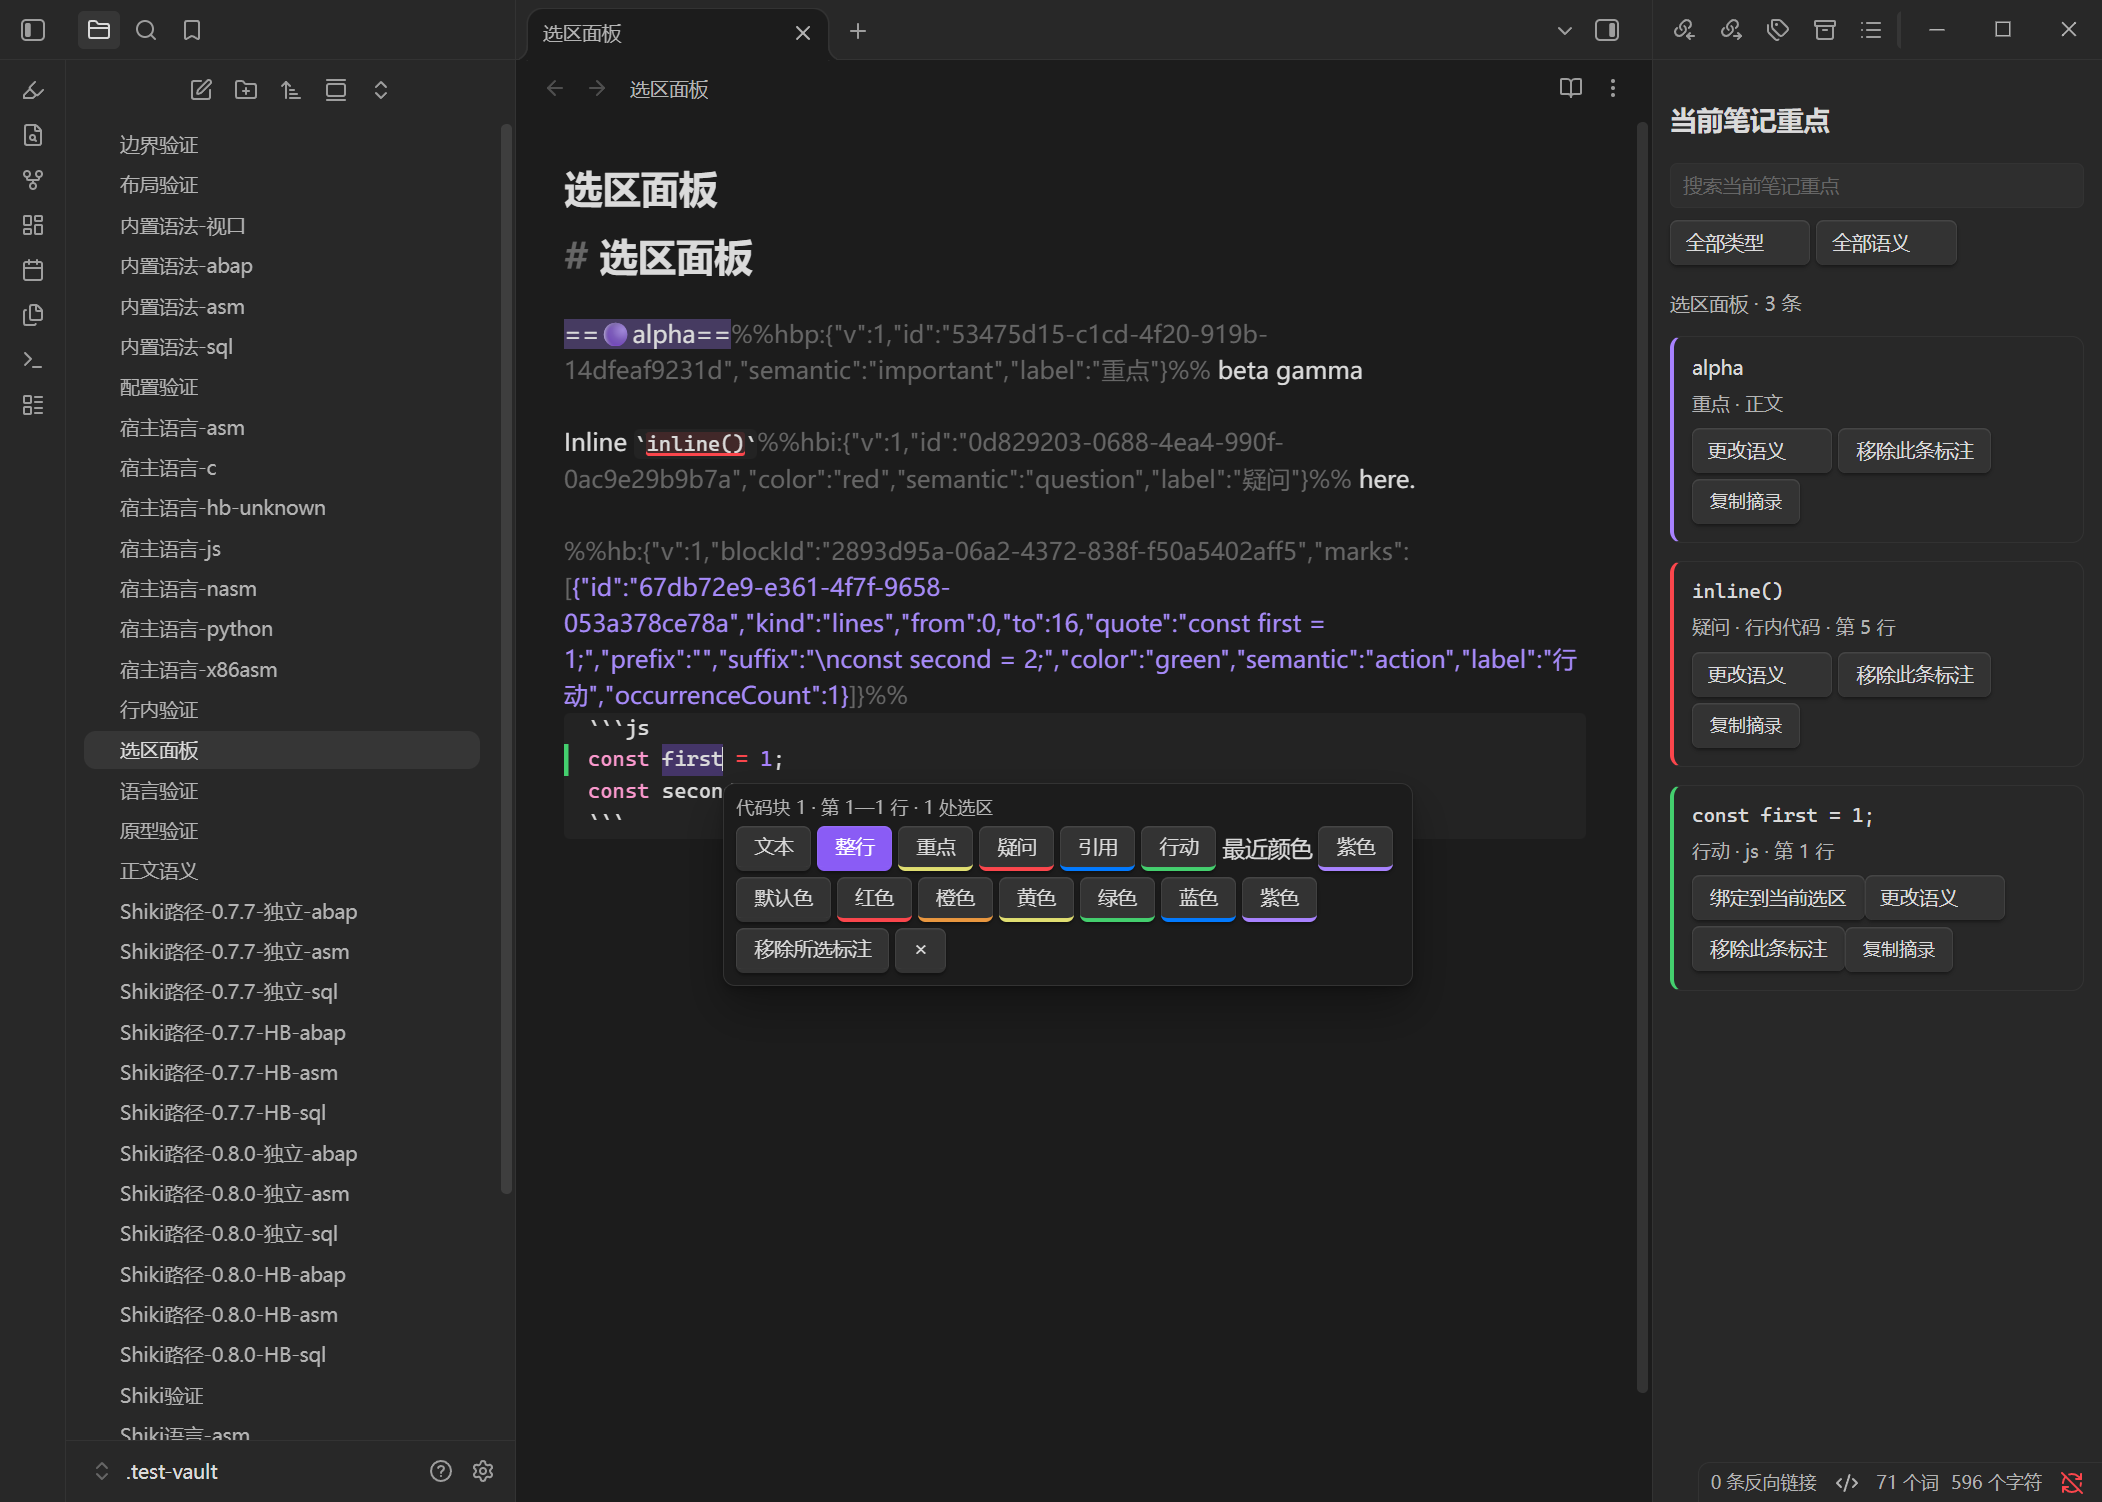
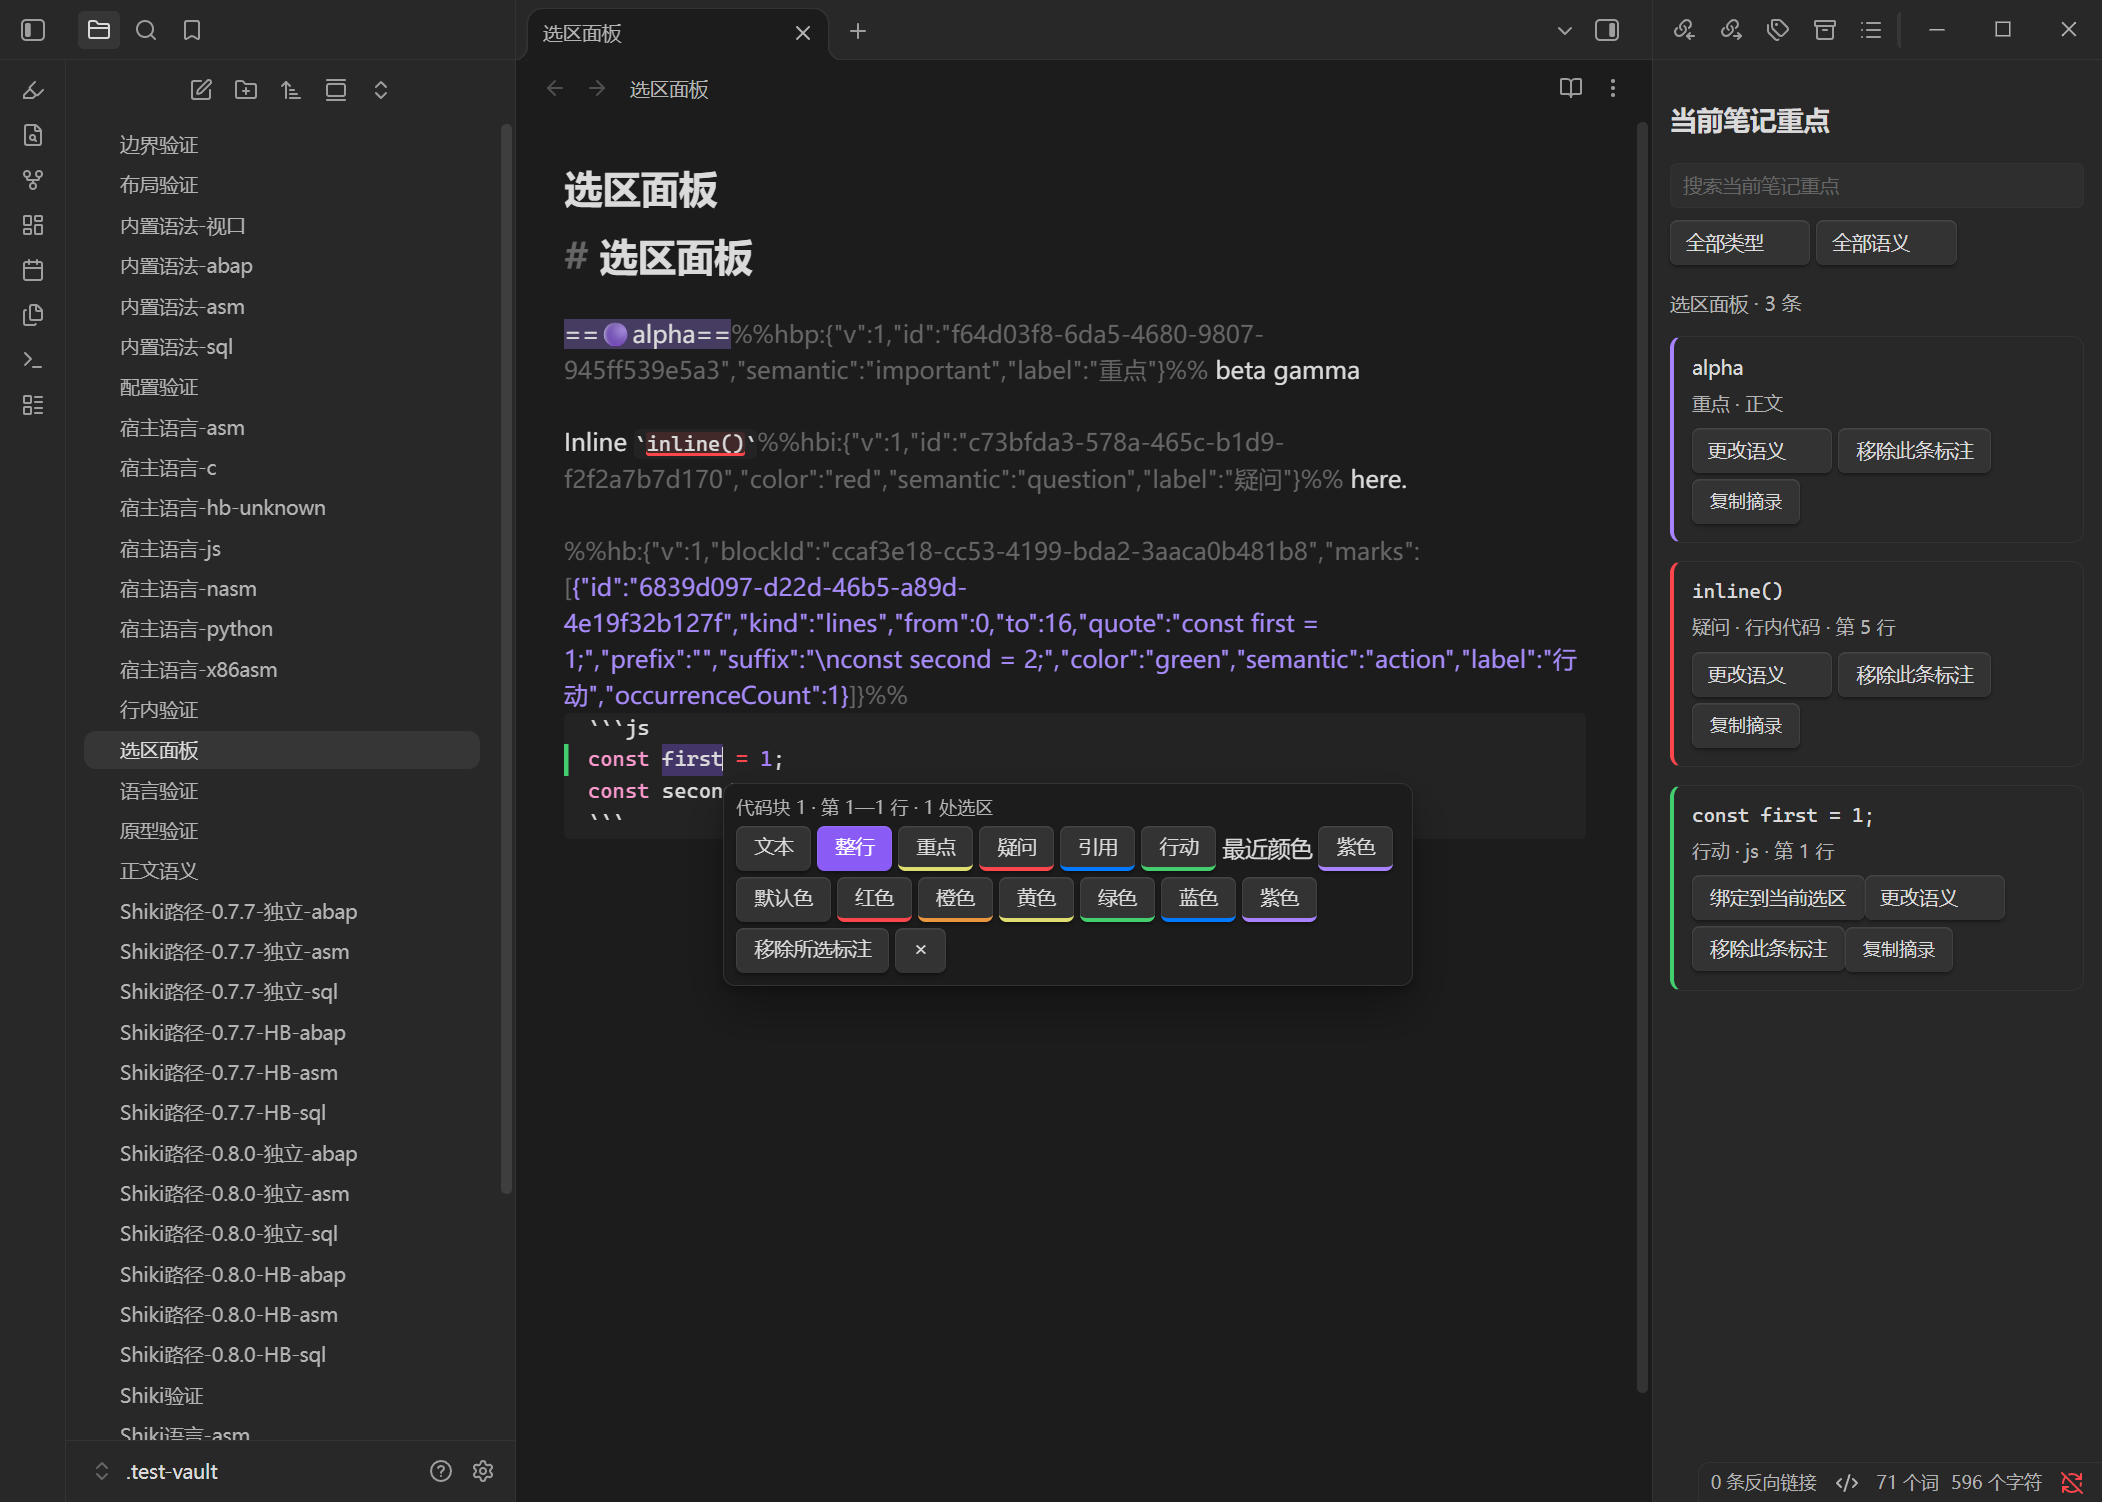
fix(文案): 完善选区单数和侧栏颜色名称检索

Changed region(s): [[0.2783, 0.2144, 0.6803, 0.4288], [0.3711, 0.245, 0.402, 0.2756]]

diff --git a/src/i18n.ts b/src/i18n.ts
@@ -4,7 +4,7 @@ export type Locale = 'zh' | 'en';
 export type Language = 'auto' | Locale;
 export const zh = {
   selectionToolbar: '选区面板', selectionToolbarHint: '选中文本后显示语义和颜色操作。', openSelectionToolbar: '打开选区面板',
-  selectionContext: '{context} · {count} 处选区', mixedSelection: '混合内容', inlineCode: '行内代码',
+  selectionContext: '{context} · {count} 处选区', selectionContextOne: '{context} · 1 处选区', mixedSelection: '混合内容', inlineCode: '行内代码',
   blockSelection: '代码块 {block} · 第 {from}—{to} 行', textMode: '文本', lineMode: '整行', recentColors: '最近颜色',
   close: '关闭', searchHighlights: '搜索当前笔记重点', allTypes: '全部类型', allSemantics: '全部语义', noMatches: '没有匹配的重点。',
   changeSemantic: '更改语义', removeItem: '移除此条标注',
@@ -32,7 +32,7 @@ export const zh = {
 export type Message = keyof typeof zh;
 export const en: Record<Message, string> = {
   selectionToolbar: 'Selection toolbar', selectionToolbarHint: 'Show semantic and color actions when text is selected.', openSelectionToolbar: 'Open selection toolbar',
-  selectionContext: '{context} · {count} selections', mixedSelection: 'Mixed content', inlineCode: 'Inline code',
+  selectionContext: '{context} · {count} selections', selectionContextOne: '{context} · 1 selection', mixedSelection: 'Mixed content', inlineCode: 'Inline code',
   blockSelection: 'Code block {block} · lines {from}–{to}', textMode: 'Text', lineMode: 'Whole lines', recentColors: 'Recent colors',
   close: 'Close', searchHighlights: 'Search note highlights', allTypes: 'All types', allSemantics: 'All semantics', noMatches: 'No matching highlights.',
   changeSemantic: 'Change semantic preset', removeItem: 'Remove this annotation',

diff --git a/src/main.ts b/src/main.ts
@@ -254,7 +254,7 @@ class HighlightsView extends ItemView {
     if (!view?.file || !this.app.workspace.getLeavesOfType('markdown').includes(view.leaf) || this.app.vault.getFileByPath(view.file.path) !== view.file) { results.createEl('p', { text: this.plugin.t('panelEmpty') }); return; }
     const text = view.editor.getValue();
     const all = collectItems(text), query = this.search.value.trim().toLocaleLowerCase();
-    const items = all.filter(item => (!query || `${item.quote}\n${item.label}\n${item.language ?? ''}`.toLocaleLowerCase().includes(query)) &&
+    const items = all.filter(item => (!query || `${item.quote}\n${item.markId ? item.label : this.plugin.colorLabel(item.color)}\n${item.language ?? ''}`.toLocaleLowerCase().includes(query)) &&
       (!this.typeFilter!.value || (this.typeFilter!.value === 'code' ? item.kind.startsWith('code-') : item.kind === this.typeFilter!.value)) &&
       (!this.semanticFilter!.value || item.semantic === this.semanticFilter!.value));
     results.createEl('p', { text: this.plugin.t(items.length === 1 ? 'summaryOne' : 'summary', { note: view.file.basename, count: items.length }), cls: 'hb-summary' });

diff --git a/src/selection-toolbar.ts b/src/selection-toolbar.ts
@@ -85,7 +85,7 @@ export function selectionToolbar(plugin: HighlightBoost) {
       const context = selectionContext(view.state.doc.toString(), view.state.selection.ranges);
       const contextLabel = context.kind === 'code' ? plugin.t('blockSelection', { block: context.block!, from: context.from!, to: context.to! }) : plugin.t(context.kind === 'mixed' ? 'mixedSelection' : context.kind === 'inline-code' ? 'inlineCode' : 'prose');
       const label = document.createElement('div'); label.className = 'hb-selection-context';
-      label.textContent = plugin.t('selectionContext', { context: contextLabel, count: context.count }); element.append(label);
+      label.textContent = plugin.t(context.count === 1 ? 'selectionContextOne' : 'selectionContext', { context: contextLabel, count: context.count }); element.append(label);
       const button = (id: string, text: string, run: () => void, color?: Color) => {
         const button = document.createElement('button');
         button.textContent = text; button.dataset.hbAction = id; button.setAttribute('aria-label', text);

diff --git a/tests/selection-toolbar.scenario.js b/tests/selection-toolbar.scenario.js
@@ -145,4 +145,3 @@
   assert('toolbar-no-page-errors', errors.length === 0, errors);
   return checks;
 })()
-
